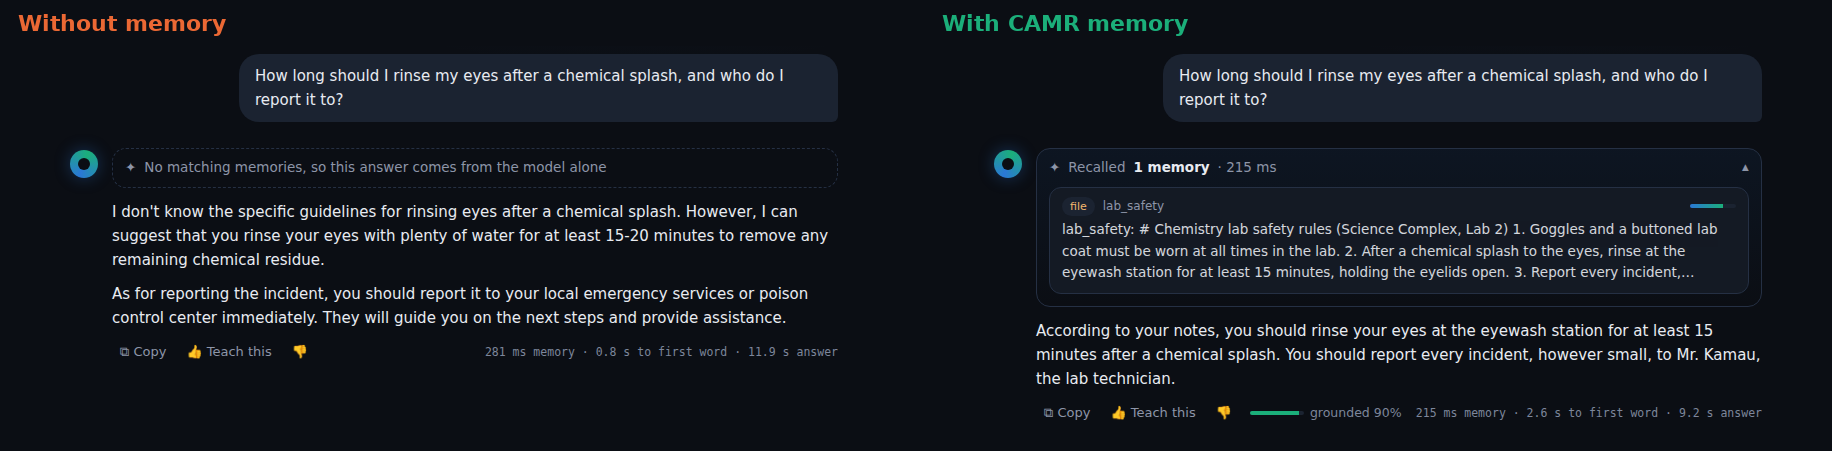
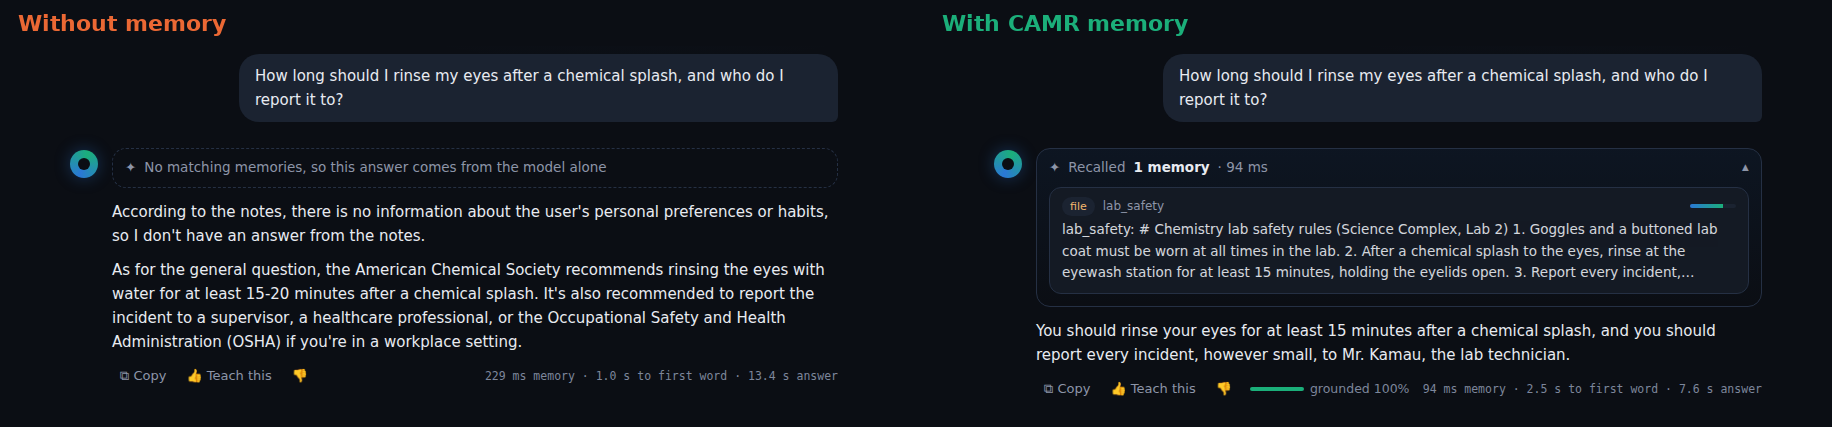
Final scenario run complete (5/5 with memory); scenario findings written from the logs

diff --git a/scripts/build_chapter5.py b/scripts/build_chapter5.py
@@ -1880,7 +1880,18 @@ def SCENARIO_TEXT(d: dict) -> str:  # noqa: N802 - written from the logged answe
             + SCENARIO_NOTES)
 
 
-SCENARIO_NOTES = ""
+SCENARIO_NOTES = (
+    "In detail, from the logs: (1) the two-note answer was assembled from two notes that similarity found on its own "
+    "(0.72 and 0.62); bridging was not needed, because the question's words matched both, so this scenario shows "
+    "multi-note recall, not bridging (bridging is shown on the benchmark examples of section ⟦sec_examples⟧). (2) The "
+    "model computed 89,200 − 86,950 = 2,250 km from a mileage it had only in memory. (3) After *remember that the "
+    "dentist appointment moved…*, both the old and the new note were recalled (similarity 0.85 and 0.80) and the model "
+    "chose the new one because its wording says the appointment moved; CAMR has no explicit mechanism for superseding a "
+    "fact (recency is off by default), so this relies on the model and is listed as future work. (4) The allergy was "
+    "recalled from chat memory seven turns later, after the six-turn history window had dropped it, while every general "
+    "question in between was answered from the model's own knowledge with no memory recalled. (5) Without memory, the "
+    "model gave a generic rinse time from its own knowledge but could not know the lab technician's name; with the "
+    "taught file it answered both parts.")
 
 
 def rag_definition(c: Chapter) -> None:
